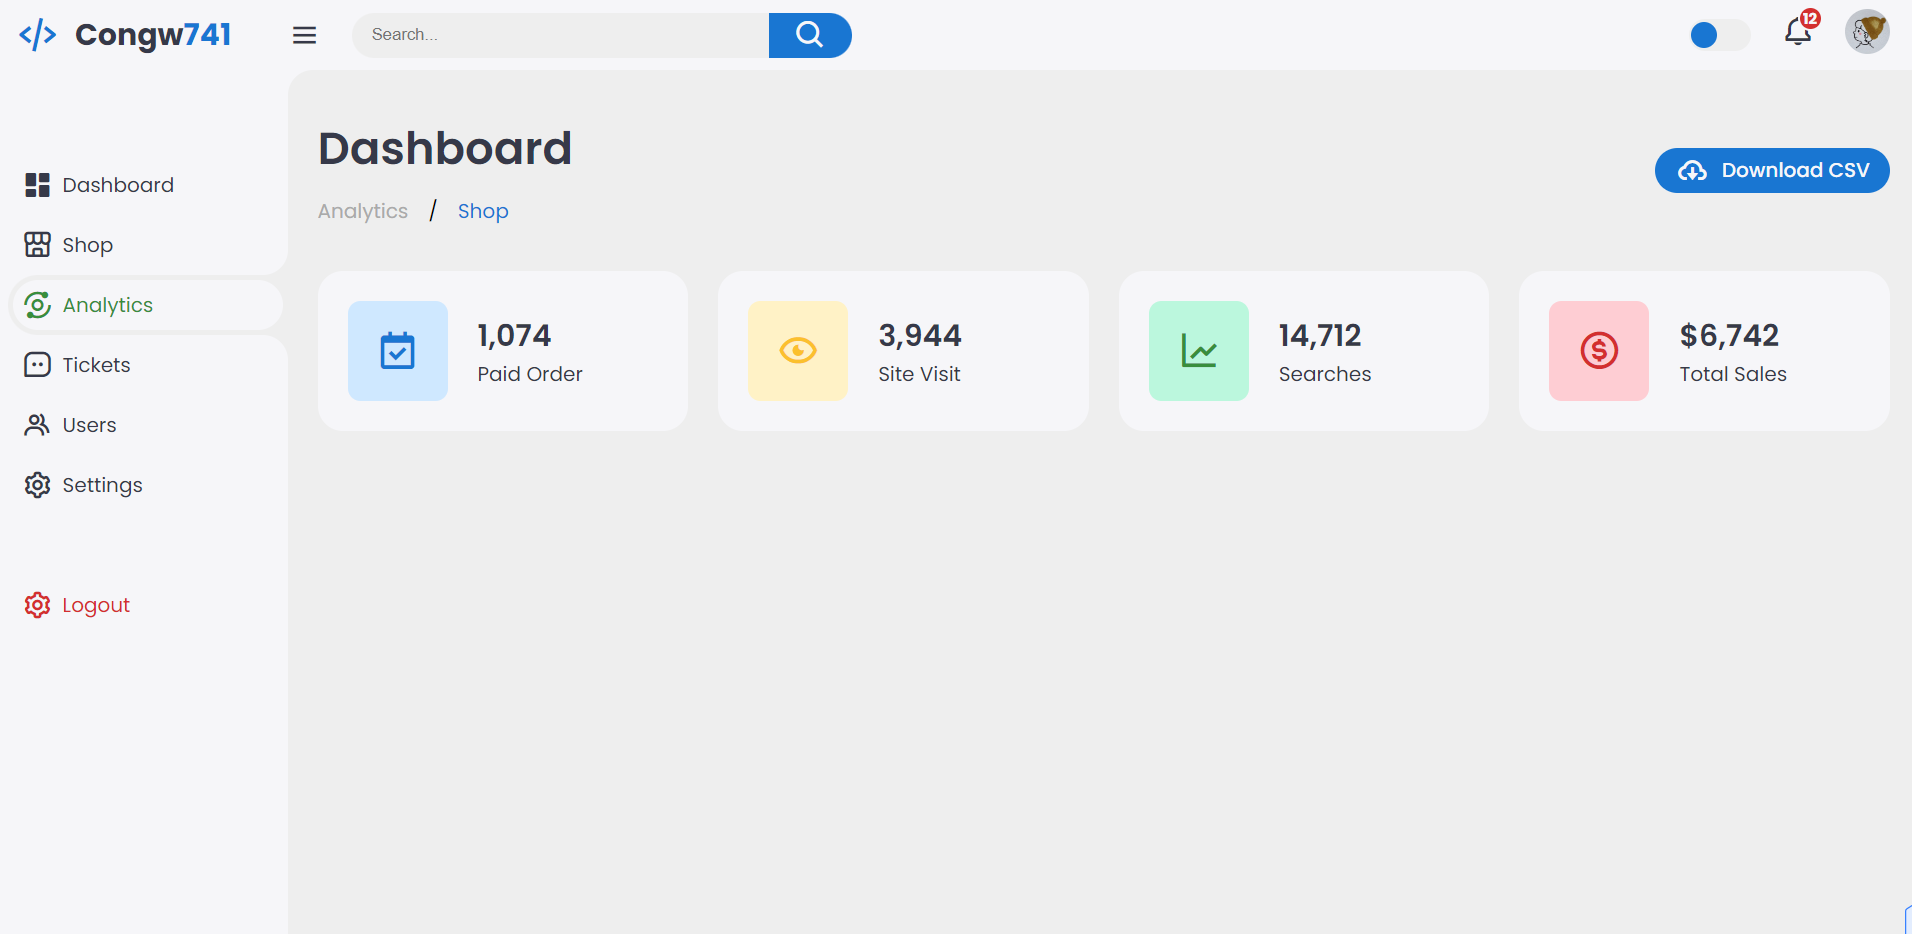
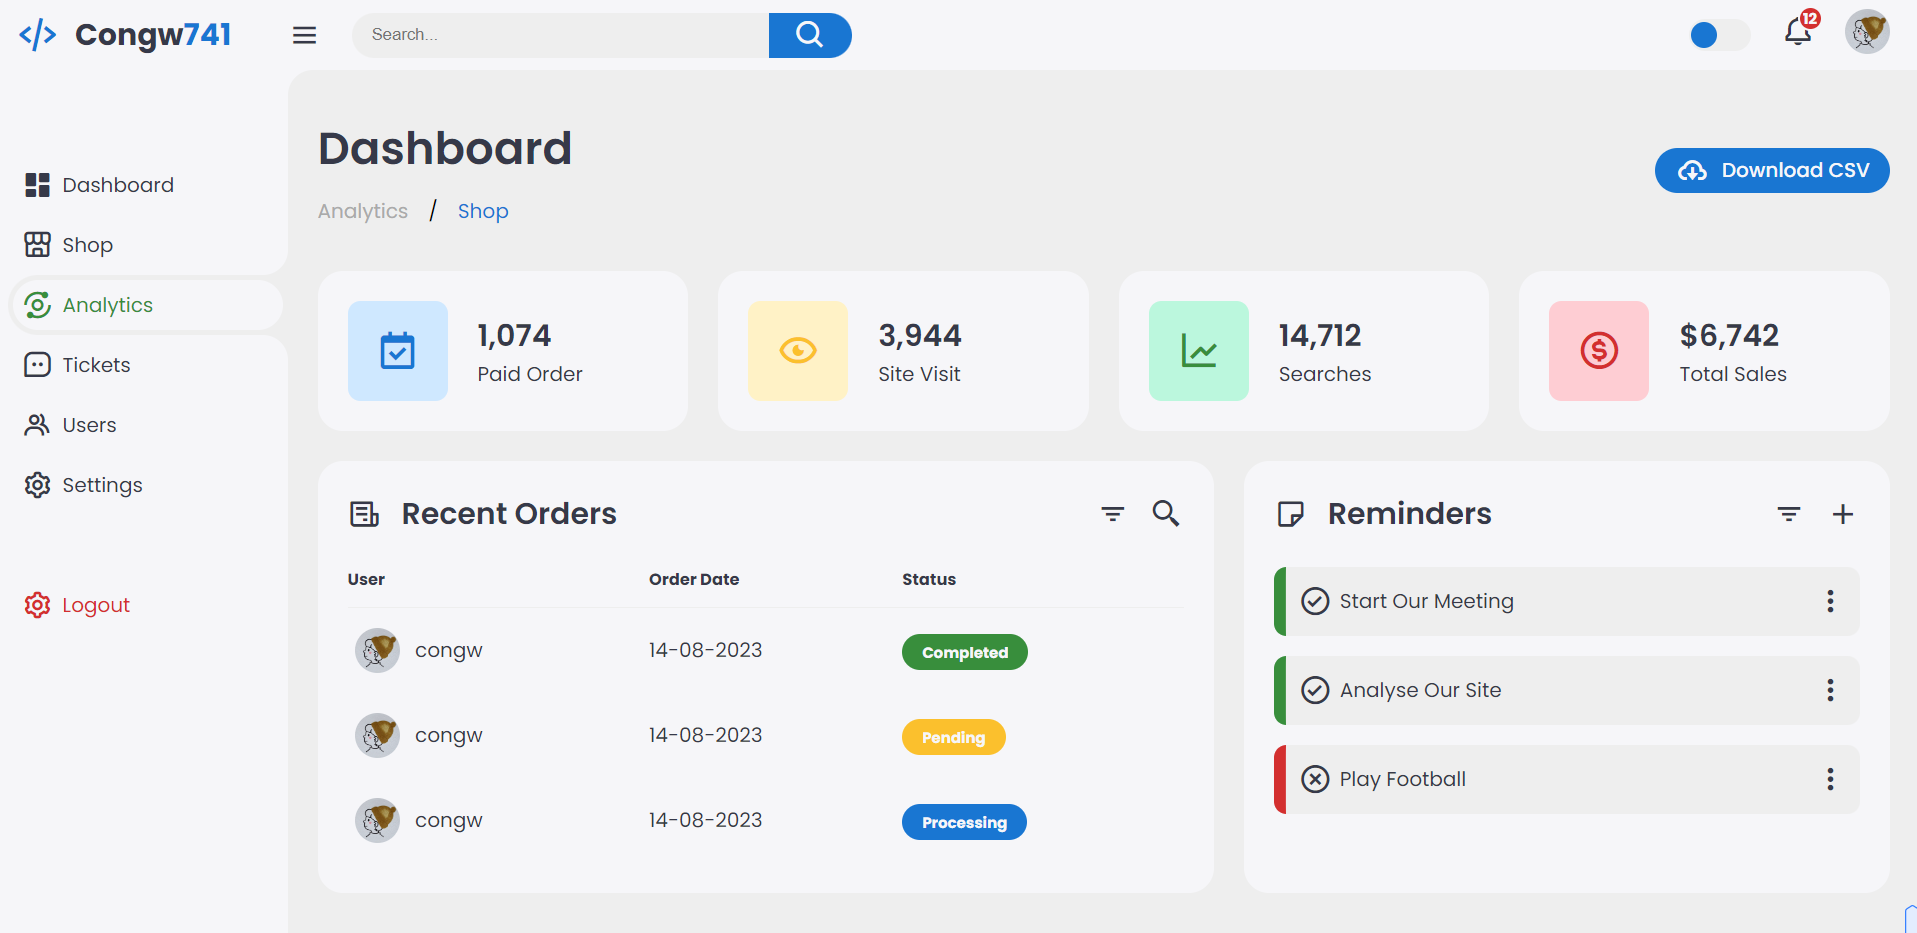
orders and reminders

diff --git a/style.css b/style.css
@@ -421,3 +421,145 @@ body {
 .content main .insights li .info p {
   color: var(--dark);
 }
+
+.content main .bottom-data {
+  display: flex;
+  flex-wrap: wrap;
+  gap: 24px;
+  margin-top: 24px;
+  width: 100%;
+  color: var(--dark);
+}
+
+.content main .bottom-data > div {
+  border-radius: 20px;
+  background: var(--light);
+  padding: 24px;
+  overflow-x: auto;
+}
+
+.content main .bottom-data .header {
+  display: flex;
+  align-items: center;
+  gap: 16px;
+  margin-bottom: 24px;
+}
+
+.content main .bottom-data .header h3 {
+  margin-right: auto;
+  font-size: 24px;
+  font-weight: 600;
+}
+
+.content main .bottom-data .header .bx {
+  cursor: pointer;
+}
+
+.content main .bottom-data .orders {
+  flex-grow: 1;
+  flex-basis: 500px;
+}
+
+.content main .bottom-data .orders table {
+  width: 100%;
+  border-collapse: collapse;
+}
+
+.content main .bottom-data .orders table th {
+  padding-bottom: 12px;
+  font-size: 13px;
+  text-align: left;
+  border-bottom: 1px solid var(--grey);
+}
+
+.content main .bottom-data .orders table td {
+  padding: 16px 0;
+}
+
+.content main .bottom-data .orders table tr td:first-child {
+  display: flex;
+  align-items: center;
+  gap: 12px;
+  padding-left: 6px;
+}
+
+.content main .bottom-data .orders table td img {
+  width: 36px;
+  height: 36px;
+  border-radius: 50%;
+  /* object-fit: cover; */
+}
+
+.content main .bottom-data .orders table tbody tr {
+  cursor: pointer;
+  transition: all 0.3s ease;
+}
+
+.content main .bottom-data .orders table tbody tr:hover {
+  background: var(--grey);
+}
+
+.content main .bottom-data .orders table tr td .status {
+  font-size: 10px;
+  padding: 6px 16px;
+  color: var(--light);
+  border-radius: 20px;
+  font-weight: 700;
+}
+
+.content main .bottom-data .orders table tr td .status.completed {
+  background: var(--success);
+}
+
+.content main .bottom-data .orders table tr td .status.process {
+  background: var(--primary);
+}
+
+.content main .bottom-data .orders table tr td .status.pending {
+  background: var(--warning);
+}
+
+.content main .bottom-data .reminders {
+  flex-grow: 1;
+  flex-basis: 300px;
+}
+
+.content main .bottom-data .reminders .task-list {
+  width: 100%;
+}
+
+.content main .bottom-data .reminders .task-list li {
+  width: 100%;
+  margin-bottom: 16px;
+  background: var(--grey);
+  padding: 14px 10px;
+  border-radius: 10px;
+  display: flex;
+  align-items: center;
+  justify-content: space-between;
+}
+
+.content main .bottom-data .reminders .task-list li .task-title {
+  display: flex;
+  align-items: center;
+}
+
+.content main .bottom-data .reminders .task-list li .task-title p {
+  margin-left: 6px;
+}
+
+.content main .bottom-data .reminders .task-list li .bx {
+  cursor: pointer;
+}
+
+.content main .bottom-data .reminders .task-list li.completed {
+  border-left: 10px solid var(--success);
+}
+
+.content main .bottom-data .reminders .task-list li.not-completed {
+  border-left: 10px solid var(--danger);
+}
+
+.content main .bottom-data .reminders .task-list li:last-child {
+  margin-bottom: 0;
+}

diff --git a/index.html b/index.html
@@ -118,6 +118,93 @@
           </li>
         </ul>
         <!-- End of Insights -->
+
+        <div class="bottom-data">
+          <div class="orders">
+            <div class="header">
+              <i class="bx bx-receipt"></i>
+              <h3>Recent Orders</h3>
+              <i class="bx bx-filter"></i>
+              <i class="bx bx-search-alt-2"></i>
+            </div>
+
+            <table>
+              <thead>
+                <tr>
+                  <th>User</th>
+                  <th>Order Date</th>
+                  <th>Status</th>
+                </tr>
+              </thead>
+              <tbody>
+                <tr>
+                  <td>
+                    <img src="./img/profile.jpg" alt="" />
+                    <p>congw</p>
+                  </td>
+                  <td>14-08-2023</td>
+                  <td>
+                    <span class="status completed">Completed</span>
+                  </td>
+                </tr>
+                <tr>
+                  <td>
+                    <img src="./img/profile.jpg" alt="" />
+                    <p>congw</p>
+                  </td>
+                  <td>14-08-2023</td>
+                  <td>
+                    <span class="status pending">Pending</span>
+                  </td>
+                </tr>
+                <tr>
+                  <td>
+                    <img src="./img/profile.jpg" alt="" />
+                    <p>congw</p>
+                  </td>
+                  <td>14-08-2023</td>
+                  <td>
+                    <span class="status process">Processing</span>
+                  </td>
+                </tr>
+              </tbody>
+            </table>
+          </div>
+
+          <!-- Reminders -->
+          <div class="reminders">
+            <div class="header">
+              <i class="bx bx-note"></i>
+              <h3>Reminders</h3>
+              <i class="bx bx-filter"></i>
+              <i class="bx bx-plus"></i>
+            </div>
+            <ul class="task-list">
+              <li class="completed">
+                <div class="task-title">
+                  <i class="bx bx-check-circle"></i>
+                  <p>Start Our Meeting</p>
+                </div>
+                <i class="bx bx-dots-vertical-rounded"></i>
+              </li>
+              <li class="completed">
+                <div class="task-title">
+                  <i class="bx bx-check-circle"></i>
+                  <p>Analyse Our Site</p>
+                </div>
+                <i class="bx bx-dots-vertical-rounded"></i>
+              </li>
+              <li class="not-completed">
+                <div class="task-title">
+                  <i class="bx bx-x-circle"></i>
+                  <p>Play Football</p>
+                </div>
+                <i class="bx bx-dots-vertical-rounded"></i>
+              </li>
+            </ul>
+          </div>
+          <!-- End of Reminders -->
+        </div>
       </main>
     </div>
 
